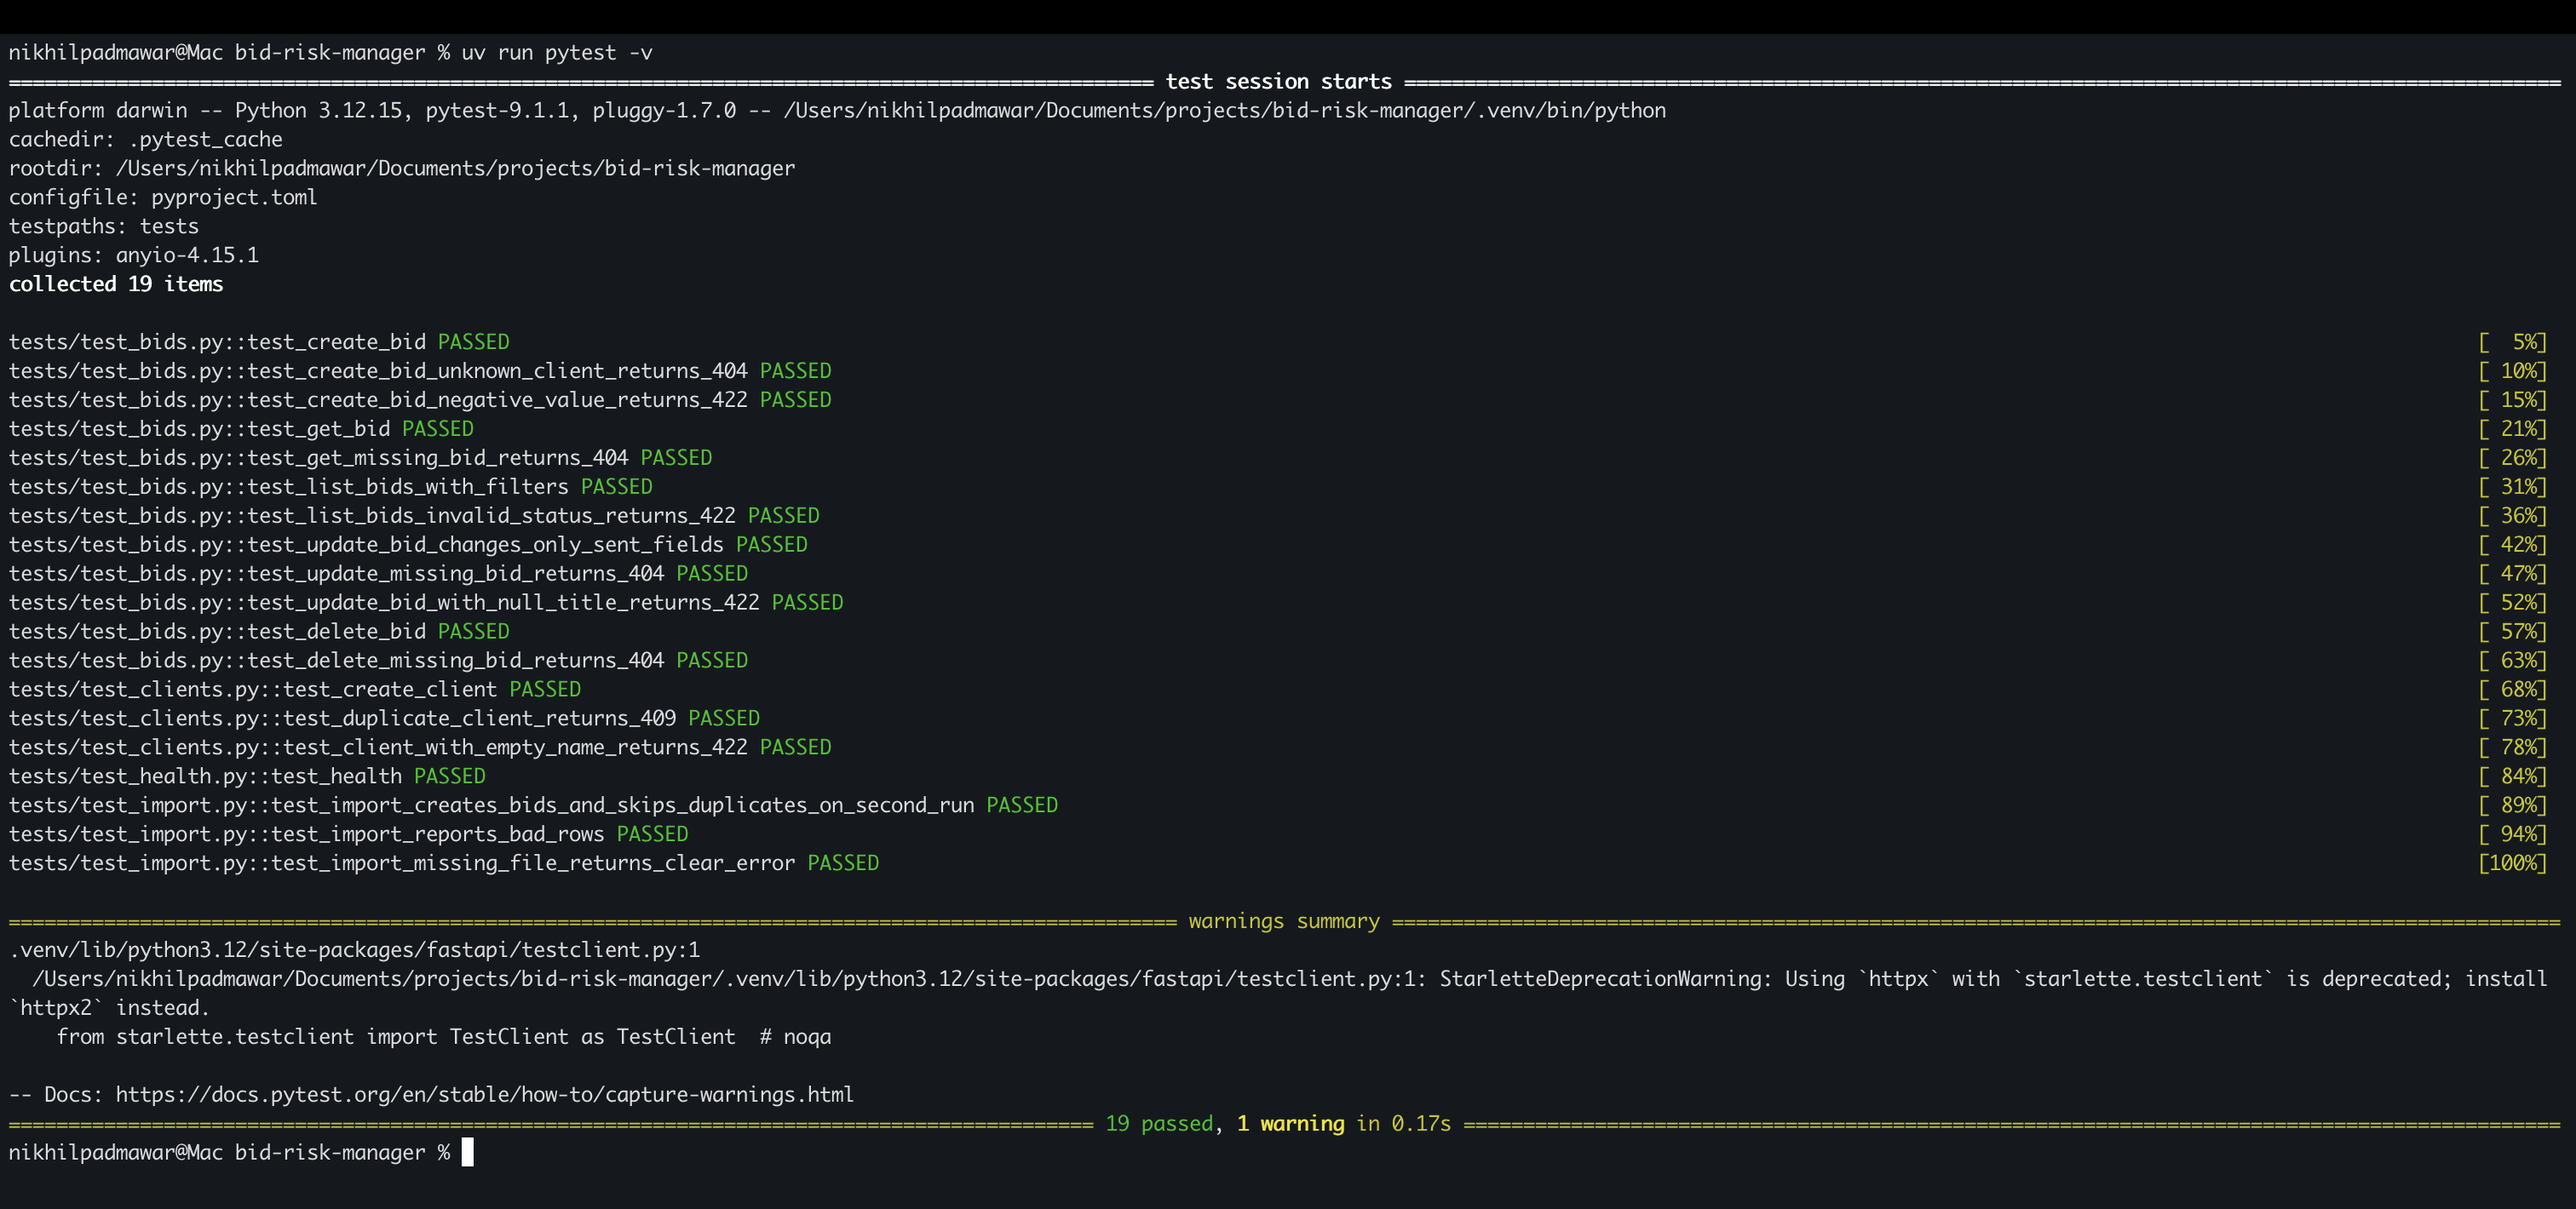
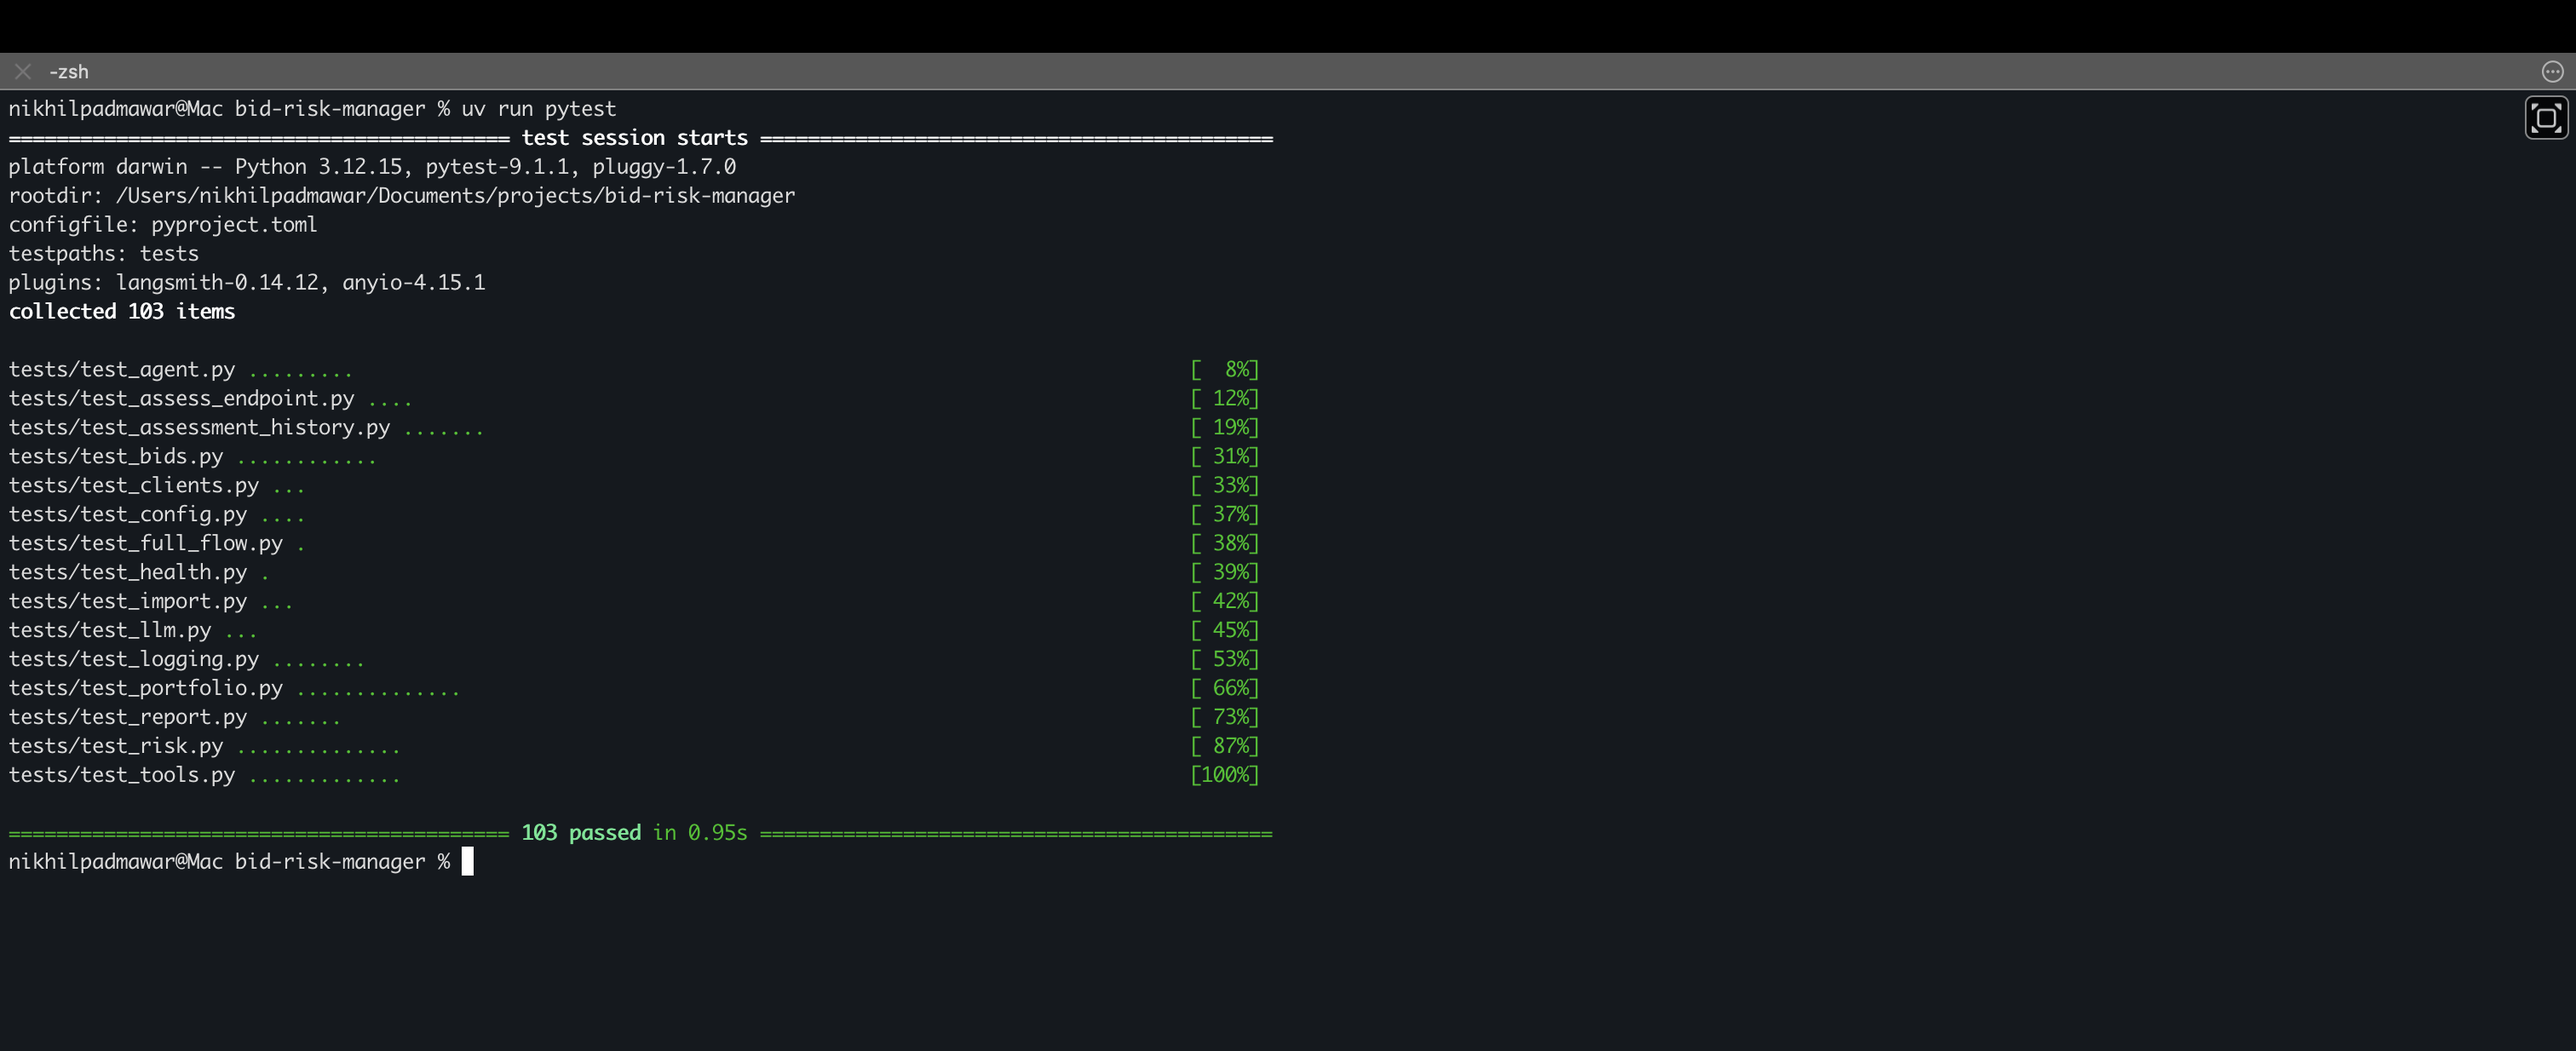
phase 2 story 10: config tests, full-flow test, docker and readme

diff --git a/tests/test_full_flow.py b/tests/test_full_flow.py
@@ -1,0 +1,36 @@
+from pathlib import Path
+
+from fakes import ScriptedChatModel, report_call
+
+from app.agent.llm import get_llm
+from app.config import settings
+from app.main import app
+
+SAMPLE_CSV = Path(__file__).parent.parent / "data" / "bids.csv"
+
+
+def test_import_the_sample_data_then_summarise_the_portfolio(client, monkeypatch):
+    monkeypatch.setattr(settings, "bids_csv_path", str(SAMPLE_CSV))
+
+    imported = client.post("/import/bids").json()
+    assert imported == {"created": 16, "duplicates": 0, "errors": []}
+
+    # 16 bids, of which one is won and one is lost, so 14 are open.
+    # The pretend model scores them 10, 15, 20 ... 75, in bid order.
+    scores = list(range(10, 80, 5))
+    assert len(scores) == 14
+    levels = ["low" if s < 25 else "medium" if s < 50 else "high" for s in scores]
+    replies = [report_call(s, lvl) for s, lvl in zip(scores, levels)]
+    app.dependency_overrides[get_llm] = lambda: ScriptedChatModel(messages=iter(replies))
+
+    summary = client.get("/risks/summary?top=3").json()
+
+    assert summary["bids_assessed"] == 14
+    assert summary["failed"] == []
+    assert [r["score"] for r in summary["top_risks"]] == [75, 70, 65]
+    assert sum(summary["by_level"].values()) == 14
+
+    # Every assessed bid now has one entry in its history
+    top_bid = summary["top_risks"][0]["bid_id"]
+    history = client.get(f"/bids/{top_bid}/assessments").json()
+    assert [a["score"] for a in history] == [75]

diff --git a/tests/test_config.py b/tests/test_config.py
@@ -1,0 +1,33 @@
+from pathlib import Path
+
+from pydantic import SecretStr
+
+from app.config import Settings, settings
+
+ENV_EXAMPLE = Path(__file__).parent.parent / ".env.example"
+
+
+def example_values() -> dict[str, str]:
+    lines = ENV_EXAMPLE.read_text().splitlines()
+    return dict(line.split("=", 1) for line in lines if "=" in line and not line.startswith("#"))
+
+
+def test_env_example_lists_every_setting():
+    # If someone adds a setting but forgets .env.example, this test reminds them
+    missing = [name.upper() for name in Settings.model_fields if name.upper() not in example_values()]
+    assert missing == []
+
+
+def test_env_example_contains_no_real_key():
+    assert example_values()["OPENROUTER_API_KEY"] == "your-key-here"
+
+
+def test_the_api_key_is_never_printed():
+    secret = Settings(openrouter_api_key=SecretStr("sk-or-super-secret"))
+    assert "sk-or-super-secret" not in repr(secret)
+    assert "sk-or-super-secret" not in str(secret)
+    assert "sk-or-super-secret" not in str(secret.model_dump())
+
+
+def test_tests_run_without_a_real_key():
+    assert settings.openrouter_api_key.get_secret_value() == ""

diff --git a/README.md b/README.md
@@ -1,23 +1,30 @@
 # Bid Risk Manager
 
-A small FastAPI service for tracking client bids. Phase 1 (this release) is a complete CRUD API with a database, CSV import, validation, logging, tests and a Docker setup. Phase 2 will add an AI agent that assesses how risky each bid is.
+A FastAPI service for tracking client bids and finding out which ones are risky. Phase 1 is a complete CRUD API with a database, CSV import, validation, logging, tests and Docker. Phase 2 adds an AI agent that assesses each bid, explains the risk, keeps a history and ranks the riskiest open bids.
 
 ## Problem
 
-Our team bids on many client proposals, but bid details (value, cost, deadline, client history) are scattered across spreadsheets and documents, so nobody can say which bids are risky. This service gives bids one home and a clean API, and is the base for automatic risk assessment.
+Our team bids on many client proposals, but bid details (value, cost, deadline, client history) are scattered across spreadsheets and documents, so nobody can say which bids are risky. This service gives bids one home and a clean API, and an agent that checks each bid and says how risky it is and why.
 
-## What Phase 1 includes
+## What it includes
 
+**Phase 1: the foundation**
 - CRUD API for clients and bids (create, list with filters, view, update, delete)
 - Bulk import of bids from a CSV file, with bad rows skipped and reported
 - Request validation and one consistent JSON error format
 - Request logging to console and file
-- 19 automated tests
-- Docker image for running locally
+
+**Phase 2: the agent**
+- A plain rule-based risk score, used as a baseline
+- An AI agent that looks up the bid, client history, margin and deadline with tools, then submits a structured risk report
+- Every assessment saved, so a bid's risk can be tracked over time
+- Every agent step and tool call logged (the API key is never logged)
+- A portfolio summary of the riskiest open bids
+- Over 100 automated tests, none of which call a real AI model
 
 ## Tech stack
 
-Python 3.12, FastAPI, Pydantic, SQLAlchemy, SQLite, uv, pytest, Docker.
+Python 3.12, FastAPI, Pydantic, SQLAlchemy, SQLite, LangChain, OpenRouter, uv, pytest, Docker.
 
 ## Quick start (local)
 
@@ -28,6 +35,11 @@ git clone https://github.com/NikhilPadmawar/bid-risk-manager.git
 cd bid-risk-manager
 uv sync
 cp .env.example .env
+```
+
+Put your [OpenRouter](https://openrouter.ai) API key in `.env` as `OPENROUTER_API_KEY`. Everything except the assessment endpoints works without it. Then start the server:
+
+```bash
 uv run uvicorn app.main:app --reload
 ```
 
@@ -37,7 +49,7 @@ To load the 16 sample bids, call `POST /import/bids` on that page.
 
 ## Configuration
 
-Settings are read from environment variables or a `.env` file (copy `.env.example`).
+Settings are read from environment variables or a `.env` file (copy `.env.example`). Restart the server after changing `.env`.
 
 | Variable | Default | Purpose |
 | --- | --- | --- |
@@ -46,8 +58,14 @@ Settings are read from environment variables or a `.env` file (copy `.env.exampl
 | `LOG_LEVEL` | `INFO` | `DEBUG`, `INFO`, `WARNING` or `ERROR` |
 | `LOG_FILE` | `app.log` | Where logs are written |
 | `BIDS_CSV_PATH` | `data/bids.csv` | File used by the CSV import |
-
-Restart the server after changing `.env`.
+| `RISK_MARGIN_THRESHOLD` | `0.15` | A margin below this is risky |
+| `RISK_DEADLINE_DAYS` | `7` | A deadline closer than this many days is risky |
+| `RISK_LOST_BIDS` | `2` | A client with this many lost bids or more is risky |
+| `OPENROUTER_API_KEY` | (empty) | Your OpenRouter key. Keep it in `.env` only, never in git |
+| `OPENROUTER_BASE_URL` | `https://openrouter.ai/api/v1` | Where model requests are sent |
+| `LLM_MODEL` | `anthropic/claude-haiku-5.5` | Model to use. It must support tool calling |
+| `LLM_TEMPERATURE` | `0.0` | 0 keeps answers as consistent as possible |
+| `LLM_TIMEOUT_SECONDS` | `60` | Give up on a model request after this long |
 
 ## API
 
@@ -59,12 +77,13 @@ Restart the server after changing `.env`.
 | GET | `/bids` | List bids. Optional filters: `status`, `client_id` |
 | GET | `/bids/{id}` | View one bid |
 | PUT | `/bids/{id}` | Update a bid. Only the fields you send change |
-| DELETE | `/bids/{id}` | Delete a bid |
+| DELETE | `/bids/{id}` | Delete a bid and its assessment history |
 | POST | `/import/bids` | Import bids from the CSV file |
+| POST | `/bids/{id}/assess` | Run the agent on one bid and save the result |
+| GET | `/bids/{id}/assessments` | Assessment history of a bid, newest first |
+| GET | `/risks/summary` | Assess all open bids and return the riskiest. Optional: `top` (default 5) |
 
-Bid status is one of `draft`, `submitted`, `won`, `lost`.
-
-Example: `GET /bids?status=submitted&client_id=1`
+Bid status is one of `draft`, `submitted`, `won`, `lost`. Open bids are the `draft` and `submitted` ones.
 
 ### Errors
 
@@ -74,7 +93,7 @@ Every error uses the same shape:
 {"error": "not_found", "message": "Bid 999 not found"}
 ```
 
-Validation errors (422) add a `details` list naming each bad field. Unexpected failures return a generic 500 message, and the full traceback goes to the log only.
+Validation errors (422) add a `details` list naming each bad field. Unexpected failures return a generic 500 message, and the full traceback goes to the log only. The assessment endpoints can also return `503 llm_not_configured` (no API key set) and `502 llm_error` (the model failed or never produced a valid report).
 
 ### CSV import
 
@@ -90,10 +109,41 @@ client_name,industry,past_bids_won,past_bids_lost,title,value,estimated_cost,dea
 
 Example response: `{"created": 16, "duplicates": 0, "errors": []}`
 
+## How a bid is assessed
+
+1. **Rules.** A plain scorer gives every bid a baseline score from 0 to 100: up to 40 points for a thin margin, 30 for a close deadline and 30 for a client with lost bids. Below 25 is low, 25 to 49 is medium, 50 and above is high.
+2. **Agent.** An LLM is given four tools (`get_bid`, `get_client_history`, `calculate_margin`, `check_deadline`) and the risk rules. It decides which tools to call, reads the results, and submits a structured report: score, level, reasons that quote the real numbers, and a one-sentence recommendation. It also reads the bid's notes, which the rules cannot.
+3. **Checks.** The report is validated. If the level does not match the score, the error goes back to the model so it can correct itself. The agent has a hard limit on steps, so it cannot loop forever.
+4. **History.** The report and the baseline are saved, so you can compare the agent with the rules and watch a bid change over time.
+
+Try one bid from the command line:
+
+```bash
+uv run python -m app.agent.run 6
+```
+
+Example response from `POST /bids/6/assess` (shortened):
+
+```json
+{
+  "assessment_id": 3,
+  "bid_id": 6,
+  "report": {
+    "score": 88,
+    "level": "high",
+    "reasons": ["Margin is 1.7%, well below the 15% threshold", "..."],
+    "recommendation": "Decline unless the price is raised."
+  },
+  "baseline": {"score": 83, "level": "high", "reasons": ["..."]},
+  "tools_used": ["get_bid", "get_client_history", "calculate_margin", "check_deadline"]
+}
+```
+
+`GET /risks/summary` runs the agent on every open bid one after another, so with a real model it takes about a minute for the sample data. Watch the progress in `app.log`.
+
 ## Demo
 
 ![API docs page](docs/swagger.png)
-
 
 ## Tests
 
@@ -103,16 +153,20 @@ uv run pytest -v
 
 ![Test run](docs/tests.png)
 
-Tests run against a throwaway in-memory database, so they never touch `bids.db`.
+Tests run against a throwaway in-memory database and a scripted pretend model, so they never touch `bids.db`, never call a real AI model and never cost anything.
 
 ## Docker
 
 ```bash
 docker build -t bid-risk-manager .
-docker run --rm -p 8000:8000 -v bid-data:/data -e DATABASE_URL=sqlite:////data/bids.db bid-risk-manager
+docker run --rm -p 8000:8000 \
+  --env-file .env \
+  -e DATABASE_URL=sqlite:////data/bids.db \
+  -v bid-data:/data \
+  bid-risk-manager
 ```
 
-Then open http://localhost:8000/docs. The `-v bid-data:/data` volume keeps the database between runs. Remove that option for a fresh, empty database each time.
+Then open http://localhost:8000/docs. The key is passed in when the container starts and is never stored in the image. The `-v bid-data:/data` volume keeps the database between runs. Remove that option, and the `DATABASE_URL` line, for a fresh, empty database each time. Without `--env-file .env` the app still runs, but the assessment endpoints return a 503.
 
 ## Project structure
 
@@ -120,30 +174,28 @@ Then open http://localhost:8000/docs. The `-v bid-data:/data` volume keeps the d
 app/
   main.py             app setup, request logging, routers
   config.py           settings from .env
-  logger.py           logging setup
+  logger.py           logging setup, hides the API key
   database.py         database engine and session
-  models.py           SQLAlchemy tables (Client, Bid)
+  models.py           SQLAlchemy tables (Client, Bid, Assessment)
   schemas.py          Pydantic request and response shapes
   exceptions.py       custom error types
-  decorators.py       database error handling decorator
+  decorators.py       database error handling, tool call logging
   error_handlers.py   consistent JSON error responses
-  routers/            clients, bids and import endpoints
-  services/           CSV import logic
+  routers/            clients, bids, import and risks endpoints
+  services/           CSV import and the rule-based risk scorer
+  agent/
+    tools.py          lookup tools the agent can call
+    llm.py            builds the model client (OpenRouter)
+    agent.py          the agent: prompt, tools, report, history
+    schemas.py        the risk report and assessment shapes
+    callbacks.py      logs each step of the agent loop
+    portfolio.py      assess all open bids and rank them
+    run.py            command line runner for one bid
 data/bids.csv         sample data
 tests/                pytest test suite
 Dockerfile
 ```
 
-## Phase 2 (planned)
-
-An agent that assesses each bid and explains the risk. Not built yet.
-
-- A rule-based risk score as a baseline: margin under 15%, deadline under 7 days, or a client with 2 or more lost bids
-- Agent tools for looking up a bid, client history, margin and deadline
-- A LangChain agent using an LLM through OpenRouter
-- `POST /bids/{id}/assess` returning a structured risk report (score, level, reasons, recommendation)
-- Assessment history and a portfolio summary of the riskiest open bids
-
 ## Scope
 
-Out of scope for now: authentication, a frontend (the Swagger page serves as the UI) and cloud deployment.
+Out of scope for now: authentication, a frontend (the Swagger page serves as the UI), cloud deployment, database migrations (tables are created on startup and never altered) and running assessments in the background.
